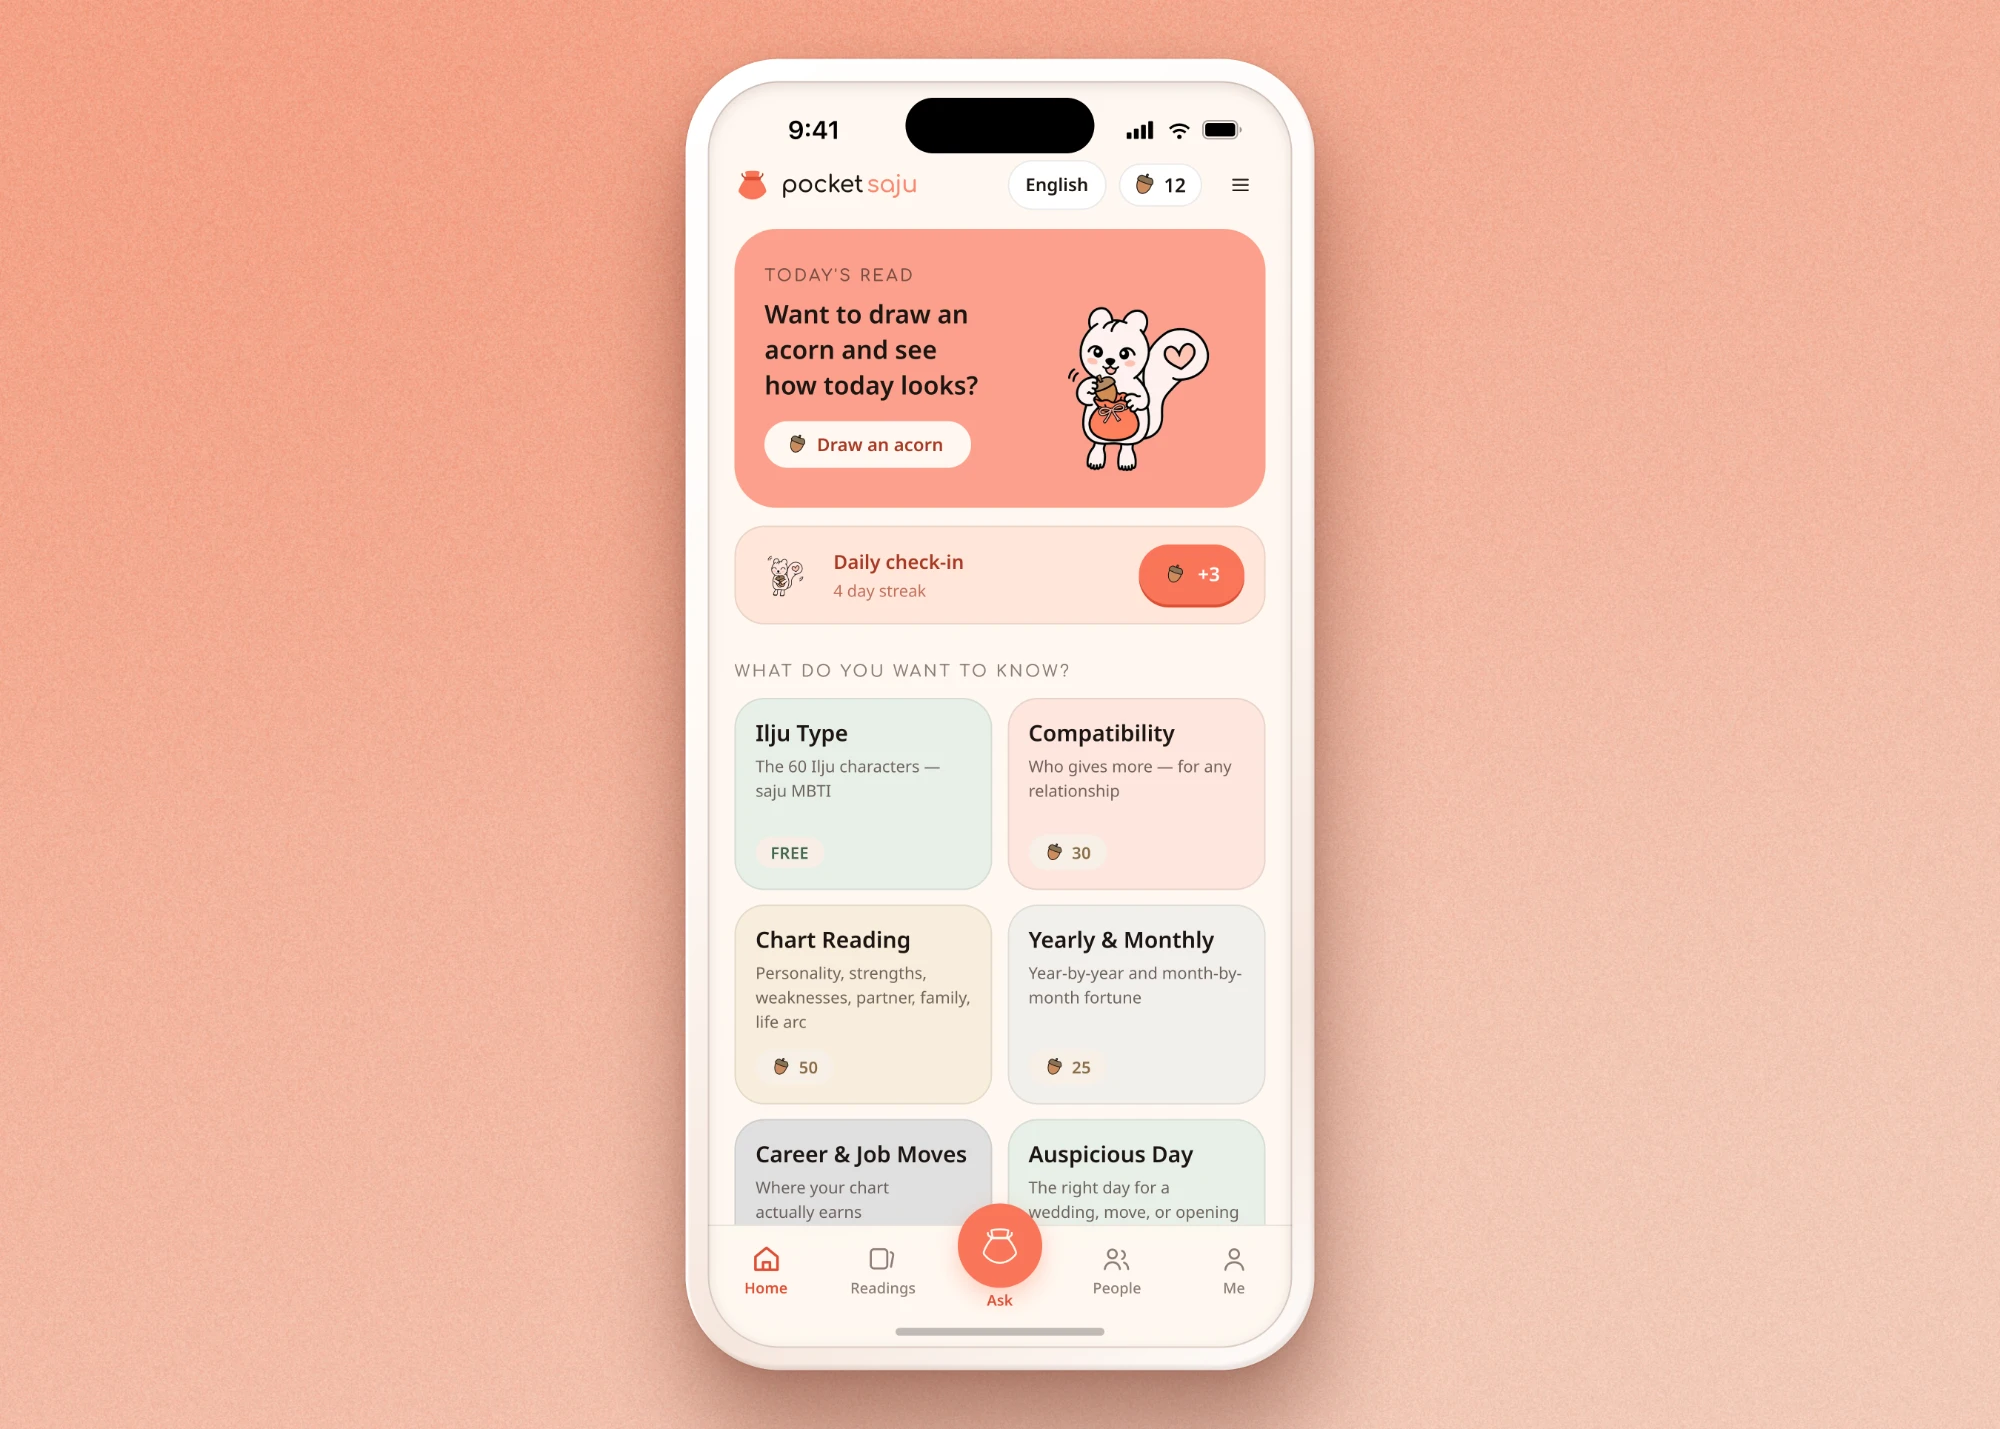
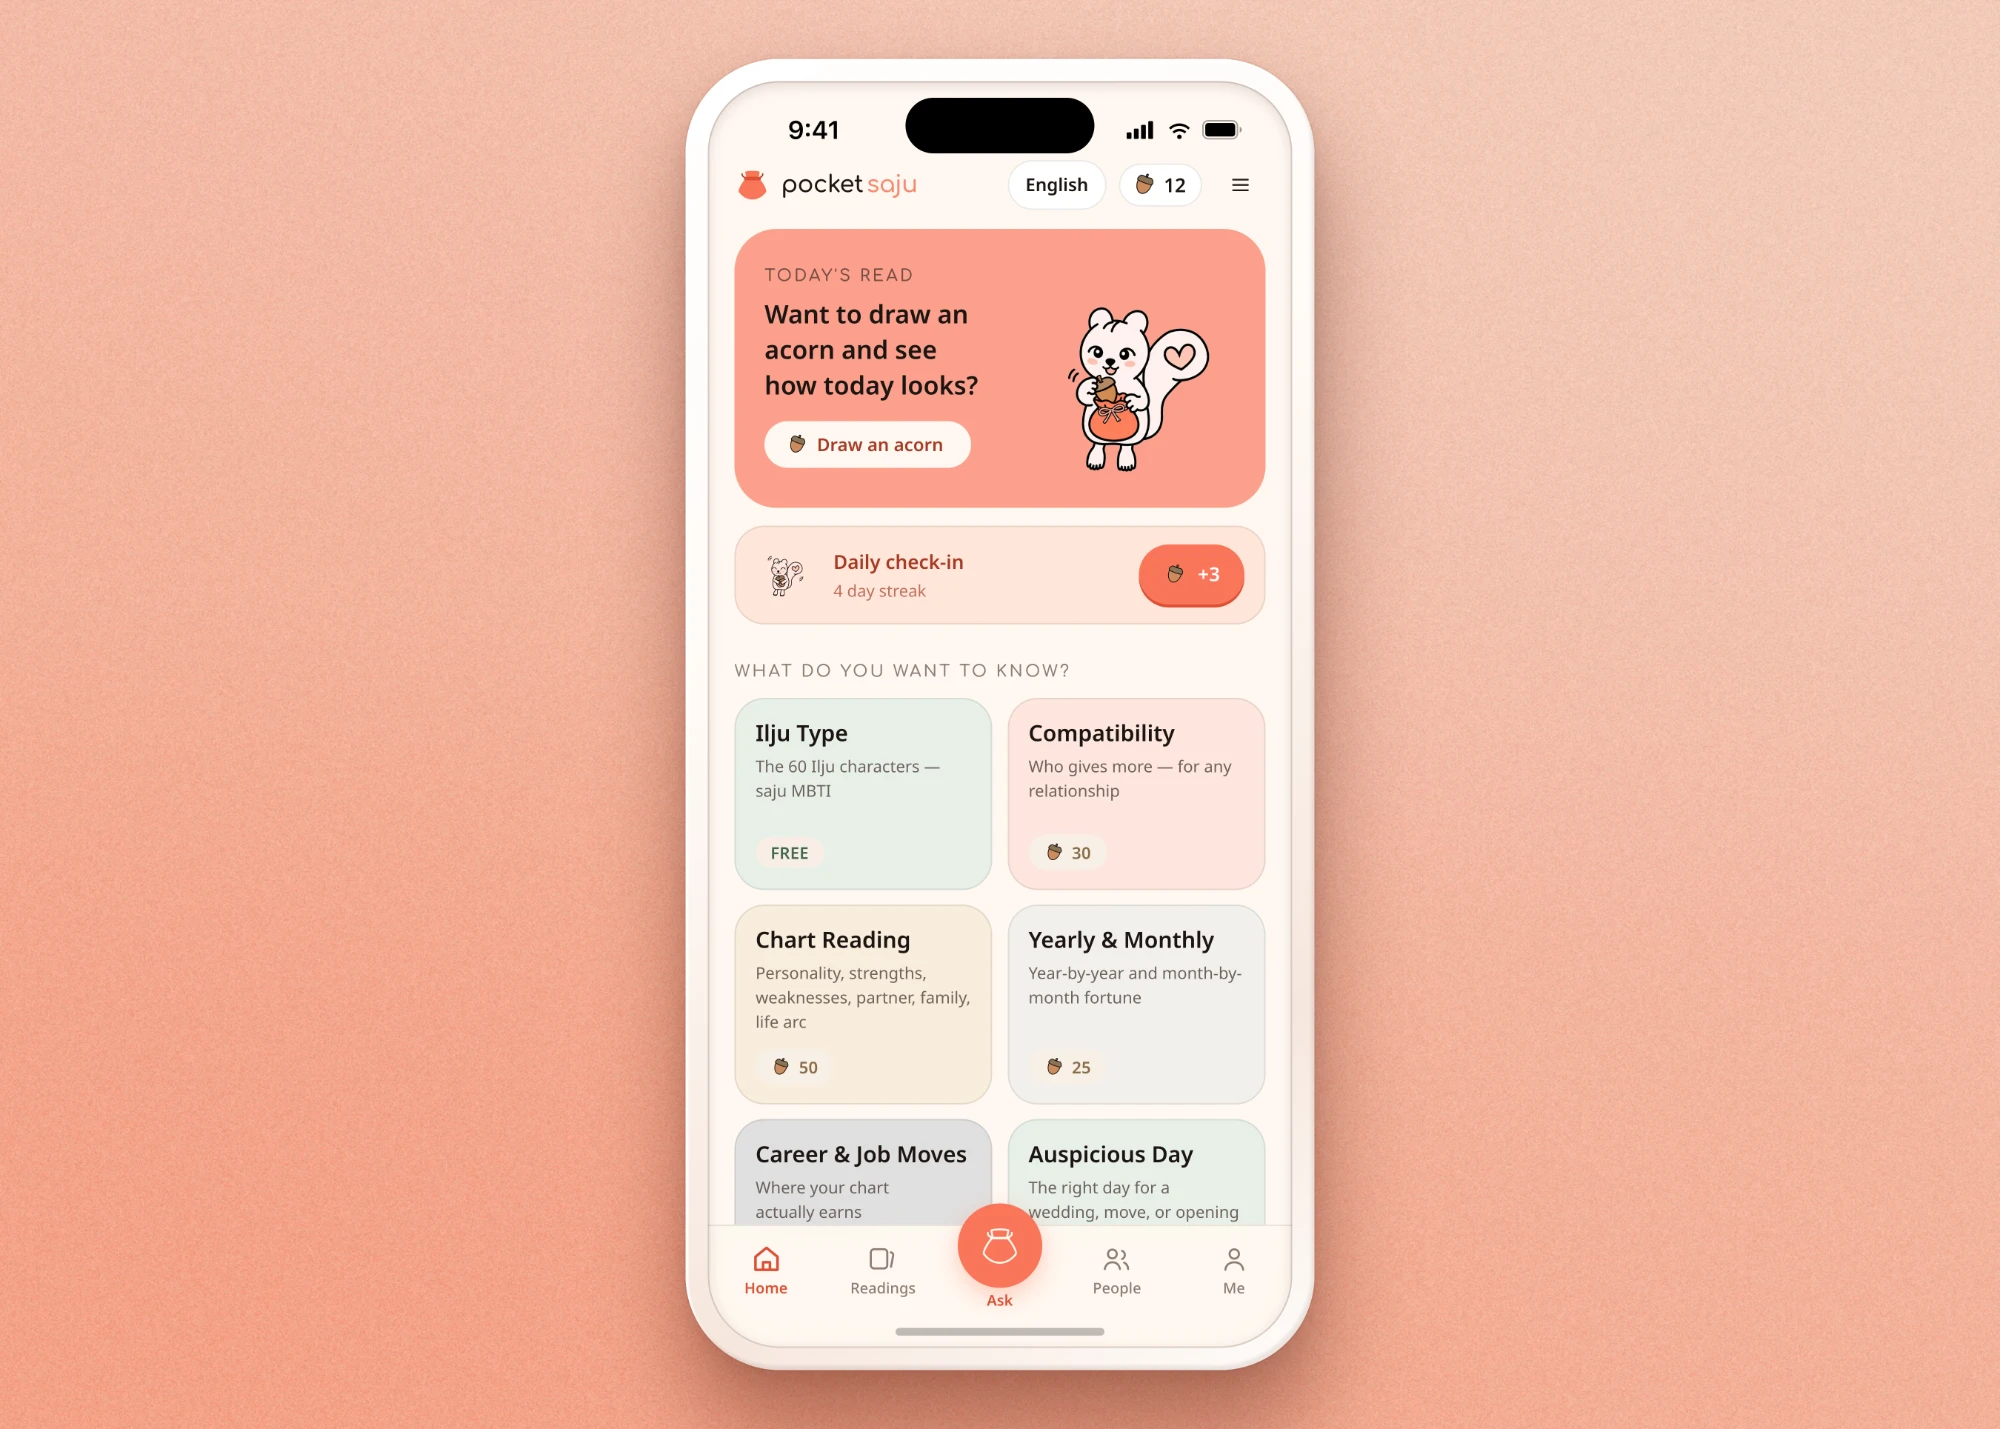
Move the app image to Pocket Saju; CONNAÎ back to placeholder art
Pocket Saju uses the updated home-screen image (same 2000x1429 size). CONNAÎ has no image of its own yet, so its tile and cover show the original placeholder illustration again; images/connai.webp is removed.

diff --git a/index.html b/index.html
@@ -59,9 +59,20 @@
           </div>
 
           <div class="item reveal">
-            <a class="tile" href="projects/connai.html" style="--tint:#c9472f">
+            <a class="tile" href="projects/connai.html" style="--tint:#1c4f78">
               <div class="art">
-                <img src="images/connai.webp" width="2000" height="1429" alt="Phone showing the Pocket Saju app home screen with today's read, daily check-in and reading topics">
+                <svg viewBox="0 0 140 100" preserveAspectRatio="xMidYMid slice" role="img" aria-label="Placeholder artwork for CONNAÎ">
+                  <defs><linearGradient id="g3" x1="0" y1="0" x2="0" y2="1"><stop offset="0" stop-color="#e9d9bf"/><stop offset="1" stop-color="#c7dbe0"/></linearGradient></defs>
+                  <rect width="140" height="100" fill="url(#g3)"/>
+                  <circle cx="118" cy="20" r="14" fill="#f4c542" opacity=".9"/>
+                  <g transform="rotate(-6 60 55)">
+                    <rect x="22" y="24" width="82" height="50" rx="3" fill="#2a3542"/>
+                    <rect x="25" y="27" width="76" height="44" rx="1.5" fill="#5ea7d6"/>
+                    <circle cx="63" cy="50" r="12" fill="#f3d2b0"/>
+                    <rect x="38" y="60" width="50" height="7" rx="3.5" fill="#fff"/>
+                    <path d="M14 76 H112 L106 82 H20Z" fill="#9aa4ae"/>
+                  </g>
+                </svg>
               </div>
               <div class="overlay" aria-hidden="true">
                 <span class="name">CONNAÎ</span>

diff --git a/projects/connai.html b/projects/connai.html
@@ -31,7 +31,20 @@
 
         <dl class="cs-facts"><div><dt>Role</dt><dd>[Your role]</dd></div><div><dt>Team</dt><dd>[Team]</dd></div><div><dt>Timeline</dt><dd>2026</dd></div><div><dt>Platform</dt><dd>[Platform]</dd></div></dl>
 
-        <div class="cs-cover" style="aspect-ratio: 2000 / 1429"><img src="../images/connai.webp" width="2000" height="1429" alt="Phone showing the Pocket Saju app home screen with today's read, daily check-in and reading topics"></div>
+        <div class="cs-cover">
+          <svg viewBox="0 0 140 100" preserveAspectRatio="xMidYMid slice" role="img" aria-label="Placeholder cover for CONNAÎ">
+                  <defs><linearGradient id="g3" x1="0" y1="0" x2="0" y2="1"><stop offset="0" stop-color="#e9d9bf"/><stop offset="1" stop-color="#c7dbe0"/></linearGradient></defs>
+                  <rect width="140" height="100" fill="url(#g3)"/>
+                  <circle cx="118" cy="20" r="14" fill="#f4c542" opacity=".9"/>
+                  <g transform="rotate(-6 60 55)">
+                    <rect x="22" y="24" width="82" height="50" rx="3" fill="#2a3542"/>
+                    <rect x="25" y="27" width="76" height="44" rx="1.5" fill="#5ea7d6"/>
+                    <circle cx="63" cy="50" r="12" fill="#f3d2b0"/>
+                    <rect x="38" y="60" width="50" height="7" rx="3.5" fill="#fff"/>
+                    <path d="M14 76 H112 L106 82 H20Z" fill="#9aa4ae"/>
+                  </g>
+                </svg>
+        </div>
       </section>
 
       <section class="cs-block reveal">
